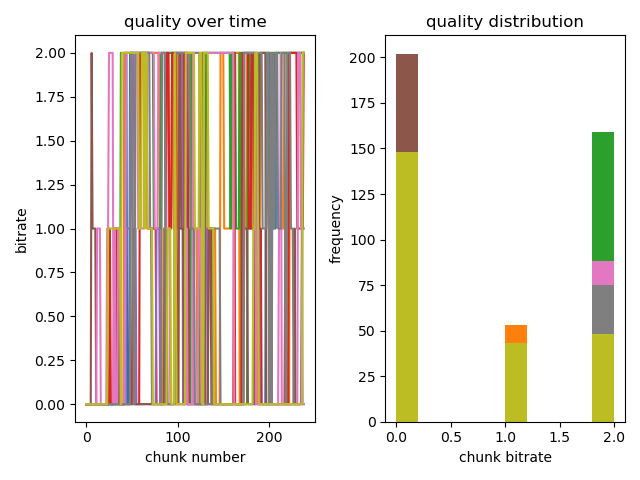
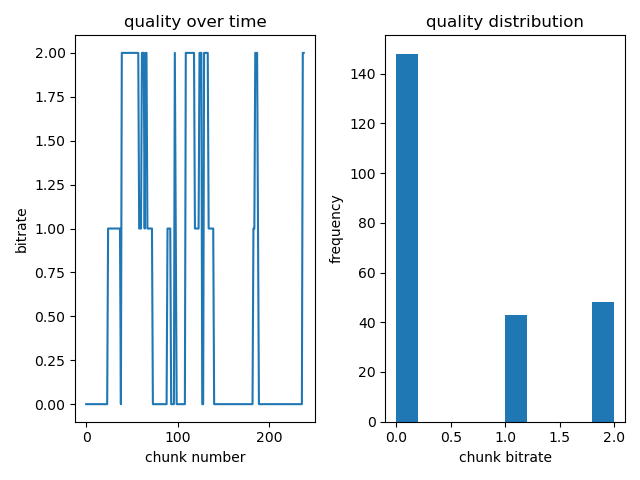
minor bba-2 plotting changes

diff --git a/student/student1.py b/student/student1.py
@@ -76,6 +76,7 @@ class BBA_2():
         self.buffer_capacity_prev = 0
         self.do_quickstart = True
 
+        self.plot_num = 1
         self.quals = []
         self.counts = [0,0,0]
 
@@ -167,13 +168,14 @@ class BBA_2():
         self.quals.append(qual_choice)
         if len(clt_msg.upcoming_quality_bitrates) == 0:
             from matplotlib import pyplot as plt 
+            
             plt.subplot(1,2,1)
             plt.plot(self.quals)
             plt.title('quality over time')
             plt.xlabel('chunk number')
             plt.ylabel('bitrate')
 
-            plt.subplot(1,2,2)
+            plt.subplot(1,2, 2)
             plt.hist(self.quals)
             plt.title('quality distribution')
             plt.xlabel('chunk bitrate')
@@ -181,6 +183,7 @@ class BBA_2():
 
             plt.tight_layout()
             plt.savefig('BBA_2_qualitites.png')
+            plt.clf()
 
         return qual_choice
 
